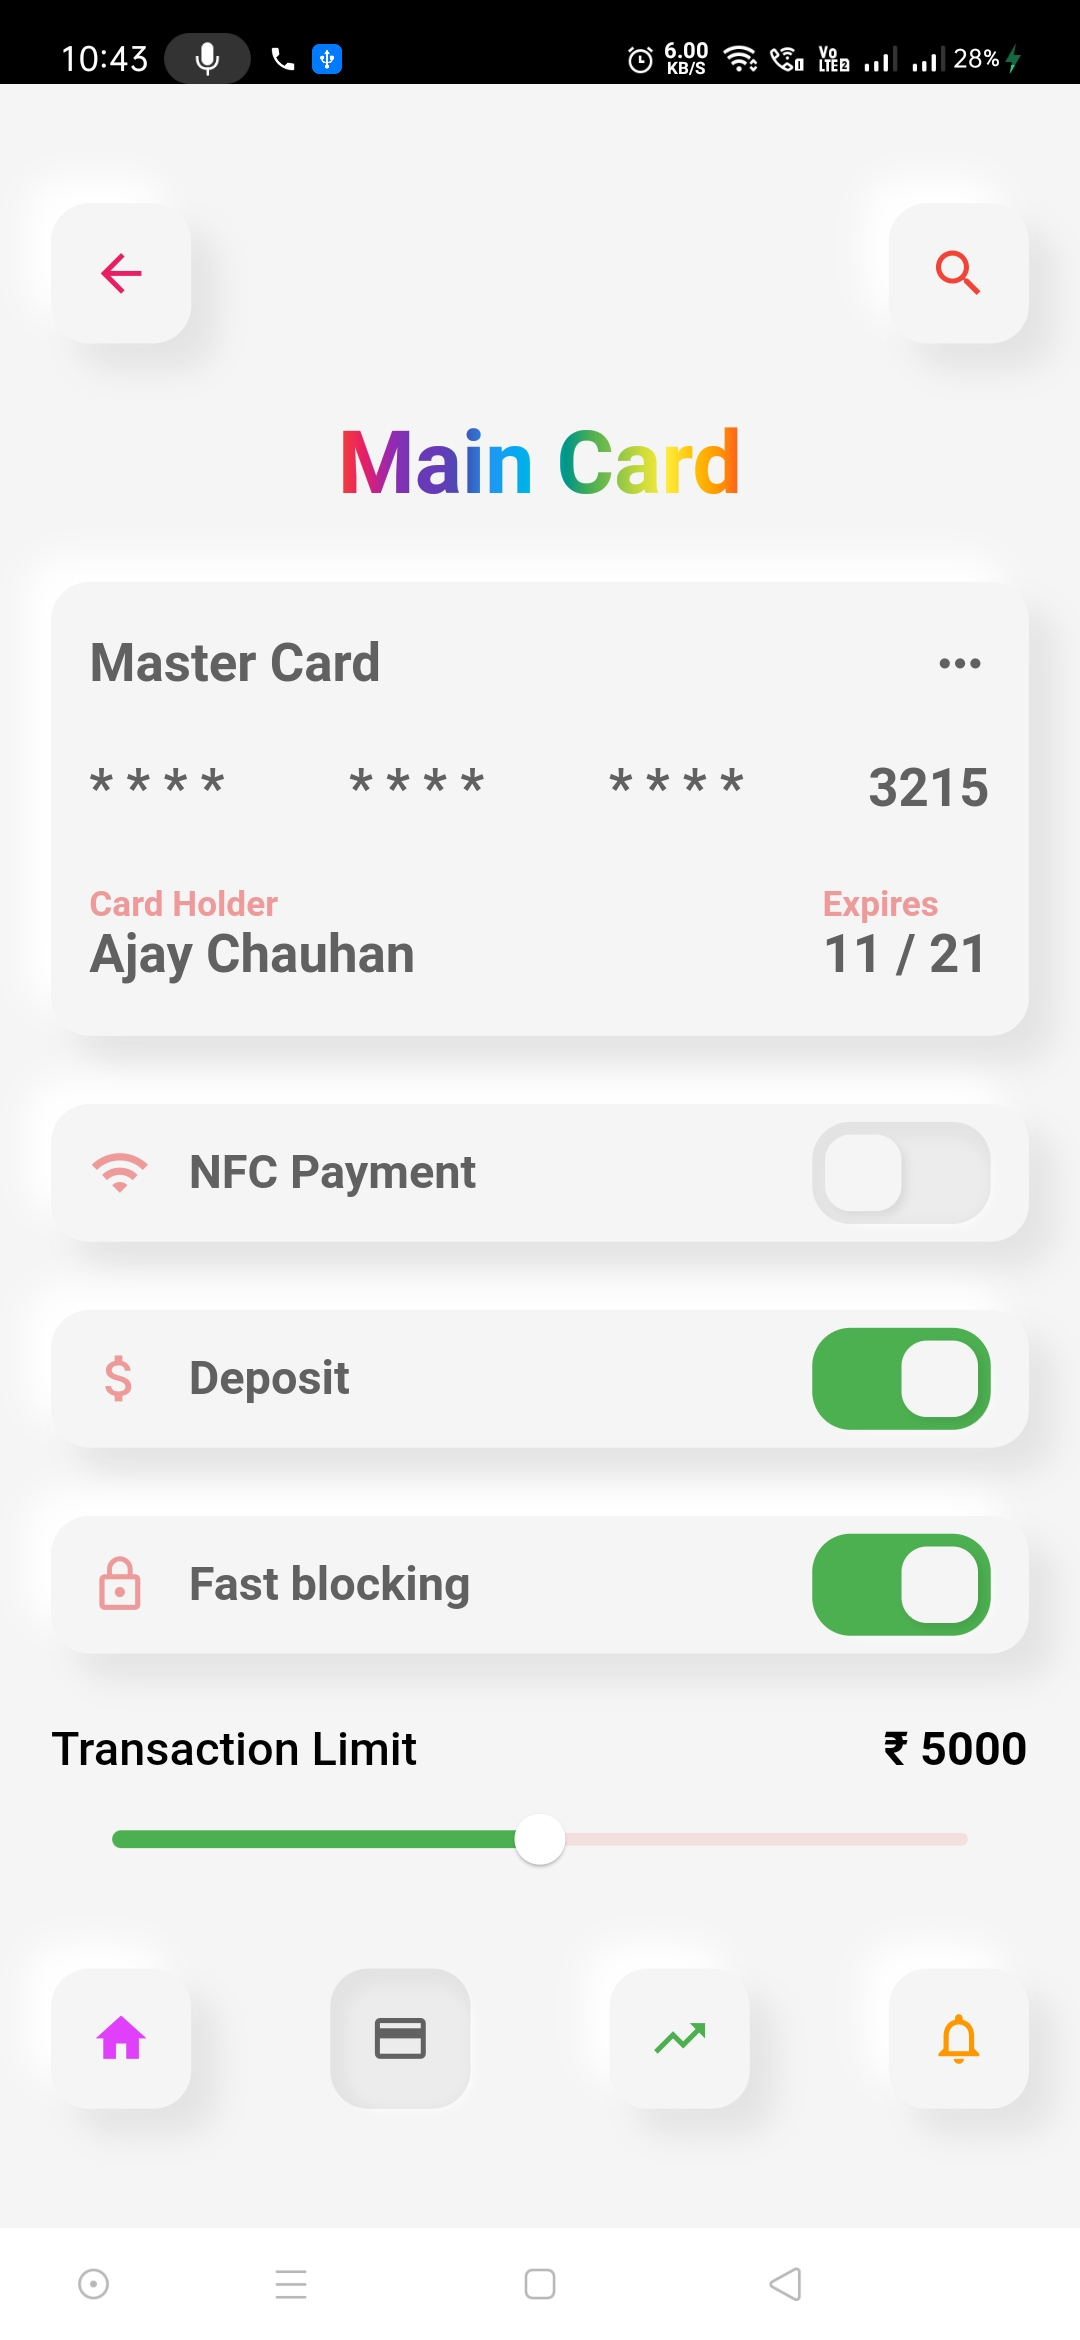
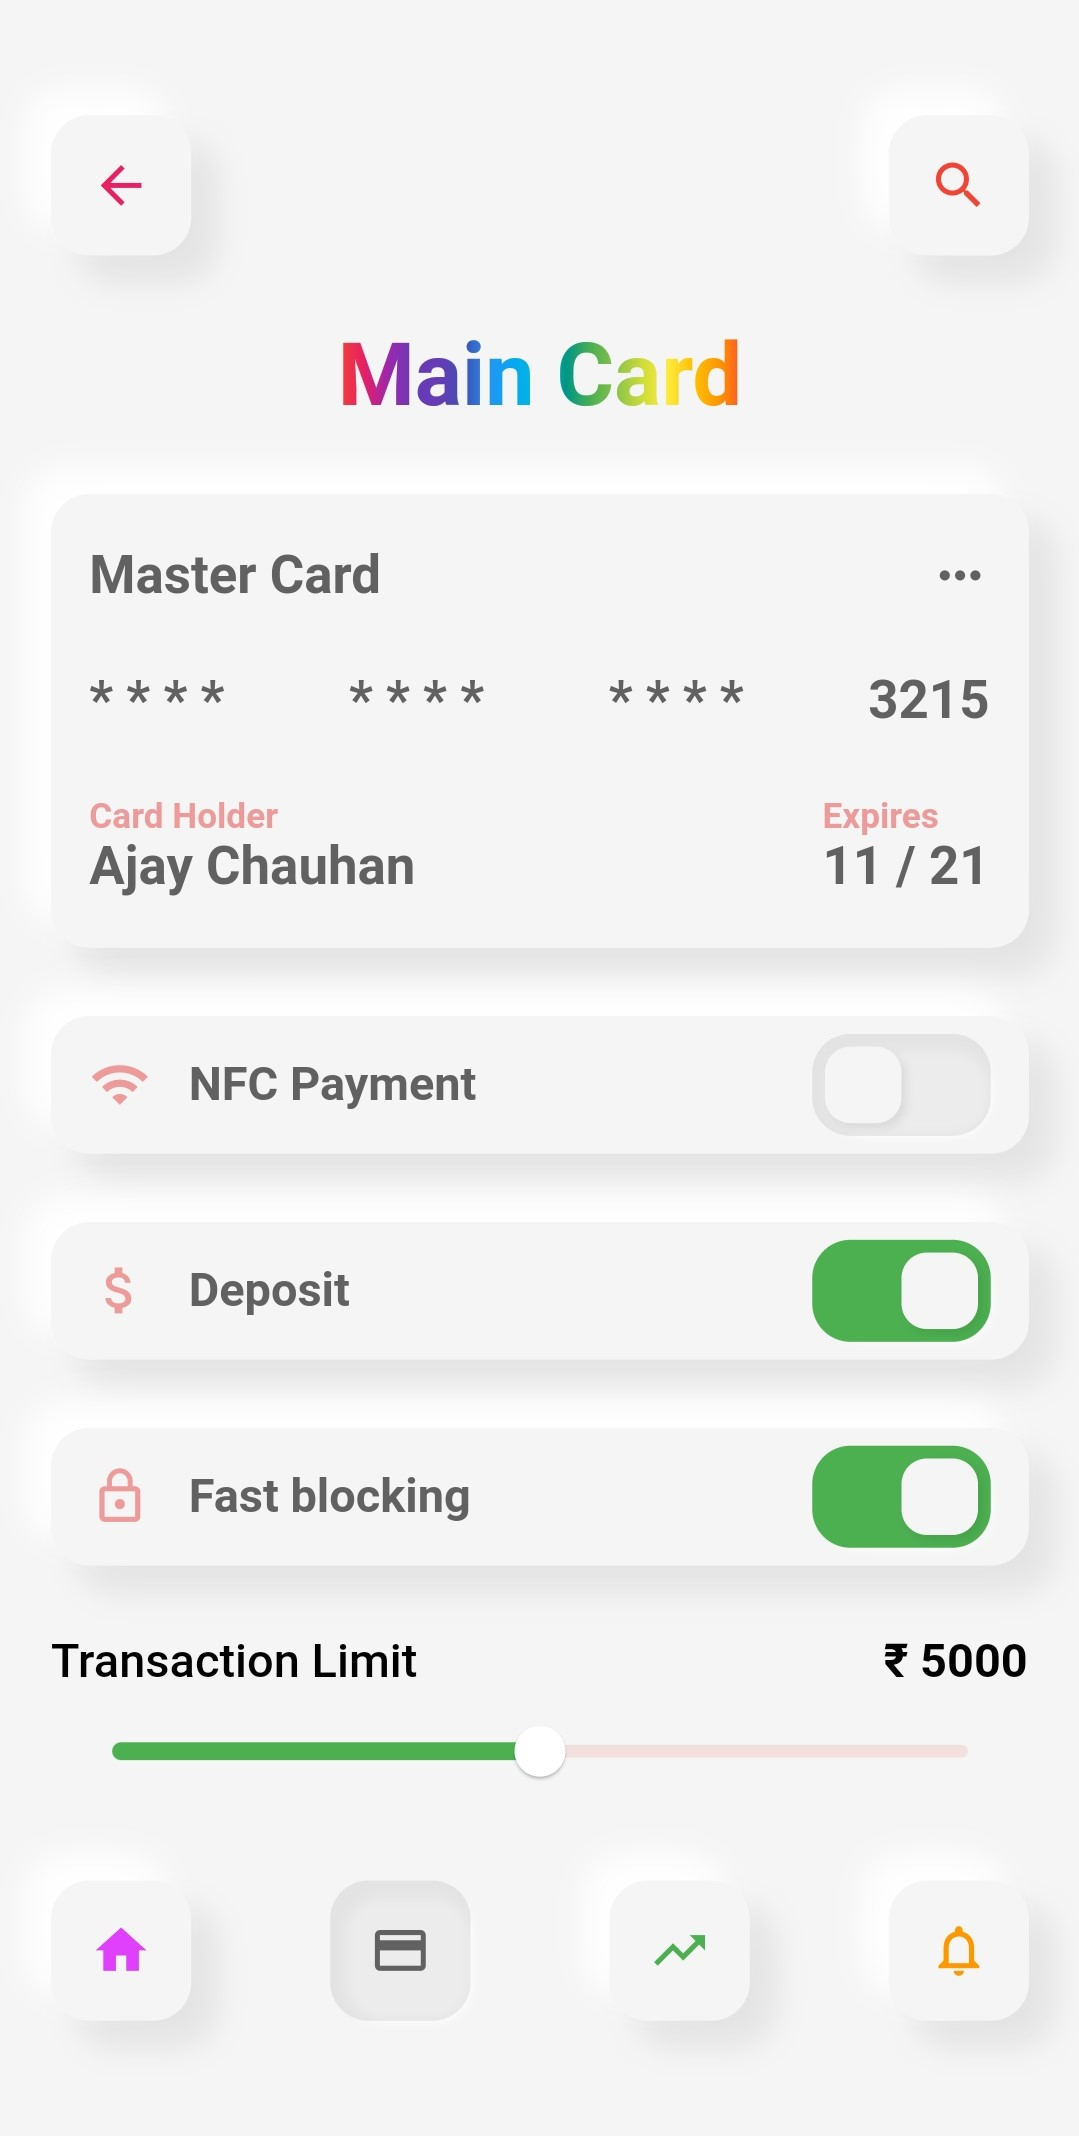
Readme.md

diff --git a/README.md b/README.md
@@ -2,4 +2,4 @@
 
 
 ### Android
-<img src="https://github.com/chirag-goel360/Payment_Screen_App_UI/blob/main/android.jpg" width="800" height="1000">
+![](https://github.com/chirag-goel360/Payment_Screen_App_UI/blob/main/android.jpg)
